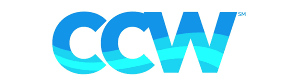
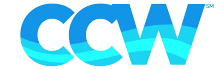
update

diff --git a/docs/_posts/2023-10-01-ai4hydro.md b/docs/_posts/2023-10-01-ai4hydro.md
@@ -55,7 +55,7 @@ categories: Project
 
 **Collaborators, etc.**
 
-   <img align="left" src="{{ site.url }}{{ site.baseurl }}/images/ccw.png" width="50px" style="margin-right:20px"> 
+   <img align="left" src="{{ site.url }}{{ site.baseurl }}/images/ccw.png" width="45px" style="margin-right:20px"> 
    <br> [Corpus Christi Water (CCW)](https://www.cctexas.com/departments/water-department)
 
    [Water & Environmental Systems Analysis (WESA) Lab](https://www.wesalab.com/)
